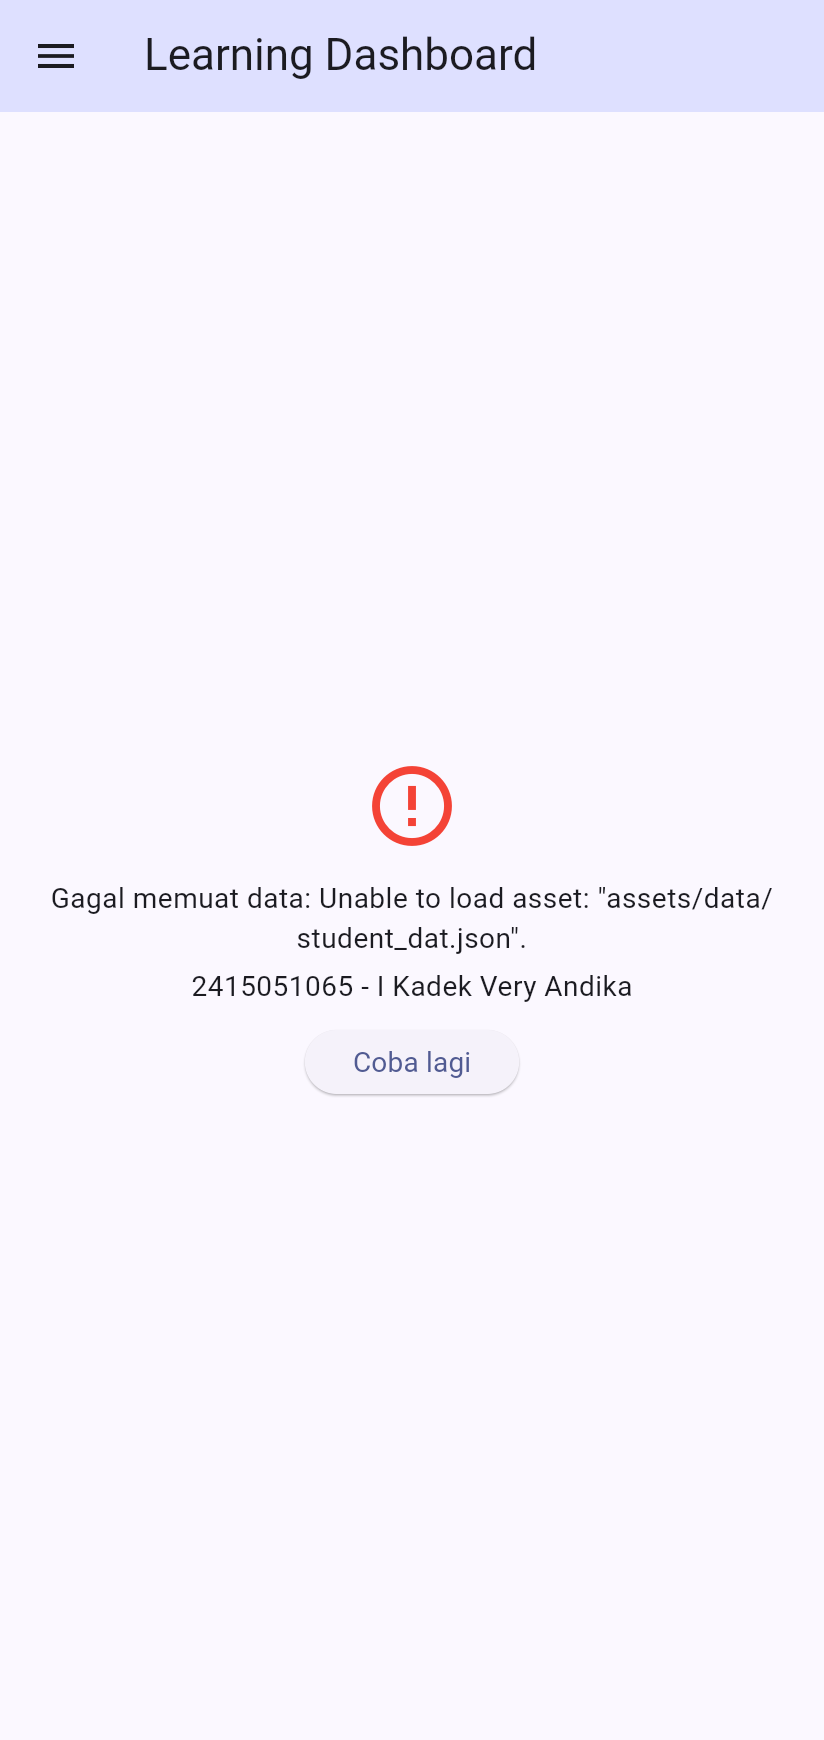
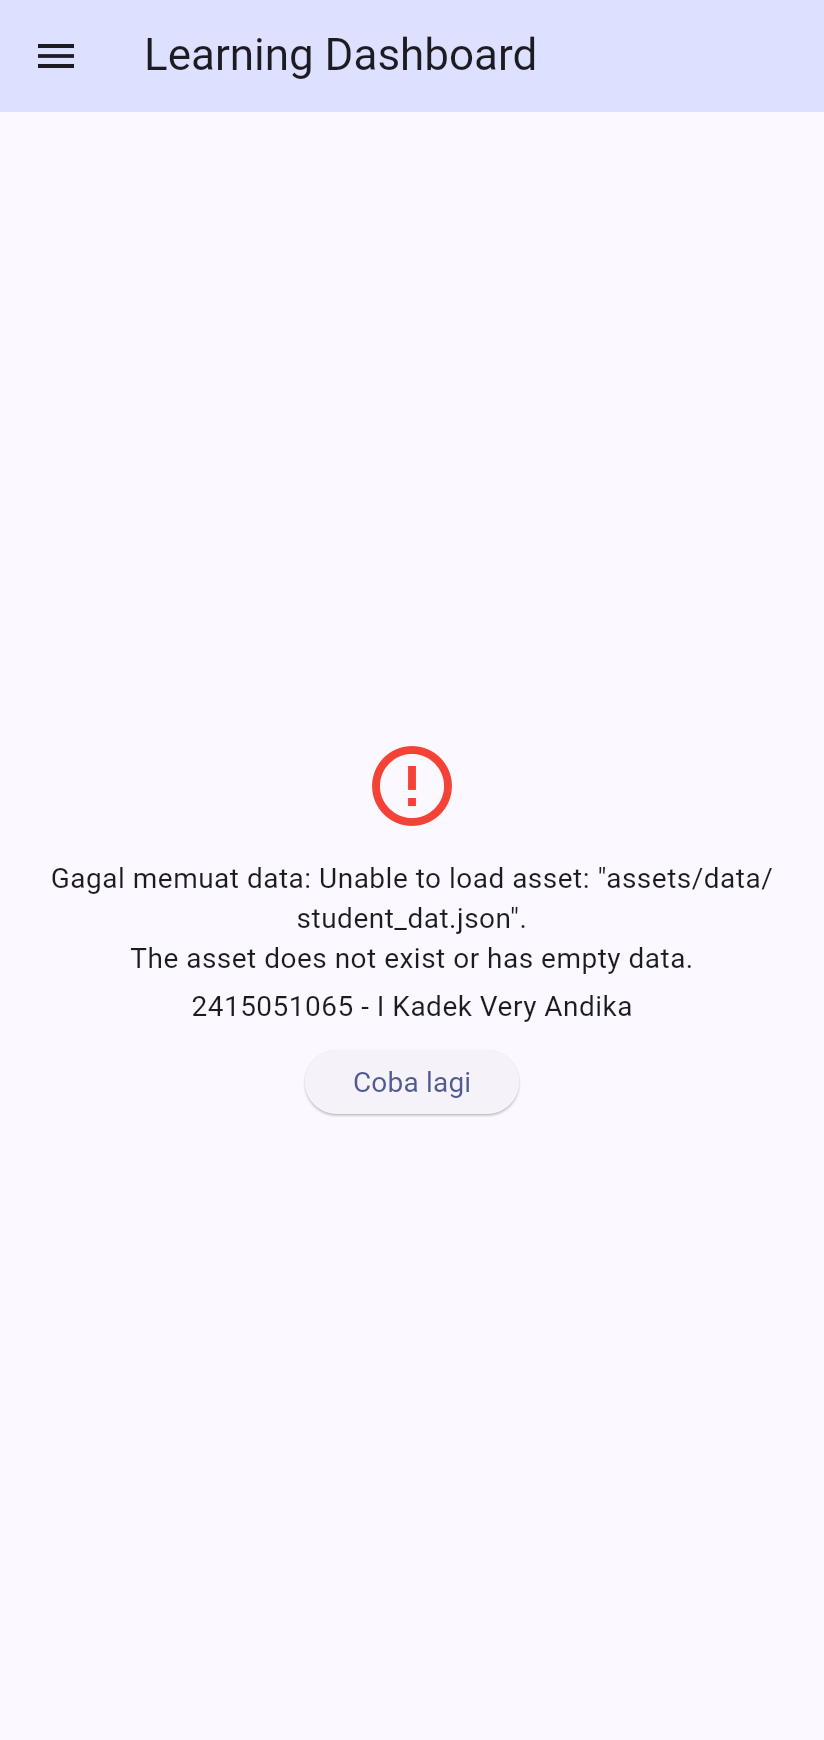
Tahap 15: tampilkan overflow asli, uji Kasus C dengan mengubah path, bukti hot reload

Changed region(s): [[0.0607, 0.4034, 0.9405, 0.6517]]

diff --git a/lib/pages/debugging_page.dart b/lib/pages/debugging_page.dart
@@ -2,7 +2,32 @@ import 'package:flutter/material.dart';
 
 import '../identity.dart';
 
-// Tahap 15 Kasus A: RenderFlex overflow pada Row.
+// Tahap 15 Kasus A (sebelum): kode dari worksheet yang sengaja dibiarkan
+// overflow agar error-nya bisa diamati pada mode debug.
+class OverflowDemoPage extends StatelessWidget {
+  const OverflowDemoPage({super.key});
+
+  @override
+  Widget build(BuildContext context) {
+    return Scaffold(
+      appBar: AppBar(title: const Text('Kasus A - Sebelum')),
+      body: const Padding(
+        padding: EdgeInsets.all(16),
+        child: Row(
+          children: [
+            Icon(Icons.info),
+            SizedBox(width: 8),
+            Text(
+              '$studentId - $studentName - Ini adalah teks yang sangat panjang untuk menguji layout',
+            ),
+          ],
+        ),
+      ),
+    );
+  }
+}
+
+// Tahap 15 Kasus A (sesudah): RenderFlex overflow diperbaiki dengan Expanded.
 class DebuggingPage extends StatelessWidget {
   const DebuggingPage({super.key});
 
@@ -15,17 +40,10 @@ class DebuggingPage extends StatelessWidget {
         child: Column(
           crossAxisAlignment: CrossAxisAlignment.start,
           children: [
-            Text('Kasus A - sebelum (overflow):'),
-            // Row(
-            //   children: [
-            //     Icon(Icons.info),
-            //     SizedBox(width: 8),
-            //     Text('$studentId - $studentName - Ini adalah teks yang sangat panjang untuk menguji layout'),
-            //   ],
-            // ),
             Text(
-              'Text di dalam Row mendapat lebar tak terbatas, sehingga teks '
-              'panjang melebihi layar dan muncul garis kuning-hitam.',
+              'Kasus A - sebelum: lihat /tahap15-overflow. Text di dalam Row '
+              'mendapat lebar tak terbatas, sehingga teks panjang melebihi '
+              'layar dan muncul garis kuning-hitam.',
               style: TextStyle(color: Colors.grey),
             ),
             SizedBox(height: 16),

diff --git a/lib/services/student_service.dart b/lib/services/student_service.dart
@@ -3,13 +3,11 @@ import 'dart:convert';
 import 'package:flutter/services.dart' show rootBundle;
 
 // Tahap 12: membaca JSON statik dari asset lalu decode ke Map.
-// Tahap 15 Kasus C: route /#/tahap15-error memanggil fungsi ini dengan
-// path yang salah ('student_dat.json') untuk memperlihatkan error state.
+// Tahap 15 Kasus C: ubah sementara path ini (mis. 'student_dat.json')
+// untuk melihat error state pada FutureBuilder, lalu kembalikan.
 const String studentDataPath = 'assets/data/student_data.json';
 
-Future<Map<String, dynamic>> loadStudentData([
-  String path = studentDataPath,
-]) async {
-  final jsonString = await rootBundle.loadString(path);
+Future<Map<String, dynamic>> loadStudentData() async {
+  final jsonString = await rootBundle.loadString(studentDataPath);
   return jsonDecode(jsonString) as Map<String, dynamic>;
 }

diff --git a/lib/pages/dashboard_page.dart b/lib/pages/dashboard_page.dart
@@ -11,9 +11,7 @@ import 'topics_page.dart';
 
 // Tahap 13 & 14: Learning Dashboard dari JSON statik.
 class DashboardPage extends StatefulWidget {
-  const DashboardPage({super.key, this.dataPath = studentDataPath});
-
-  final String dataPath;
+  const DashboardPage({super.key});
 
   @override
   State<DashboardPage> createState() => _DashboardPageState();
@@ -26,12 +24,12 @@ class _DashboardPageState extends State<DashboardPage> {
   @override
   void initState() {
     super.initState();
-    studentFuture = loadStudentData(widget.dataPath);
+    studentFuture = loadStudentData();
   }
 
   void _reload() {
     setState(() {
-      studentFuture = loadStudentData(widget.dataPath);
+      studentFuture = loadStudentData();
     });
   }
 

diff --git a/lib/main.dart b/lib/main.dart
@@ -55,6 +55,5 @@ final Map<String, WidgetBuilder> appRoutes = {
   '/tahap13': (_) => const Tahap13Page(),
   '/latihan': (_) => const PracticePage(),
   '/tahap15': (_) => const DebuggingPage(),
-  '/tahap15-error': (_) =>
-      const DashboardPage(dataPath: 'assets/data/student_dat.json'),
+  '/tahap15-overflow': (_) => const OverflowDemoPage(),
 };

diff --git a/JAWABAN.md b/JAWABAN.md
@@ -1,7 +1,6 @@
 # Jawaban Worksheet Pertemuan 4 – Flutter UI Fundamentals
 
-> Sesuaikan dengan bahasa Anda sendiri sebelum dikumpulkan. Ganti `NIM_ANDA`
-> di `lib/identity.dart` dan `assets/data/student_data.json`.
+> Sesuaikan dengan bahasa Anda sendiri sebelum dikumpulkan.
 
 ## Peta tahap → file
 
@@ -21,9 +20,15 @@ Field tambahan JSON (Tahap 14): `student.motto` dan `courses[].progress`
 (ditampilkan sebagai kutipan di kartu profil dan progress bar di tiap materi).
 
 ## Tahap 1 – Eksperimen Hot Reload
-Hot Reload menyuntikkan kode baru ke aplikasi yang sedang berjalan dalam ±1 detik
-dan state (misalnya teks di TextField) tetap dipertahankan. Stop lalu run ulang
-membangun ulang aplikasi dari awal: lebih lama dan semua state kembali ke nilai awal.
+Diuji dengan `flutter run -d chrome` (mode debug) di halaman `/tahap1`:
+1. Tombol + ditekan 3 kali → counter **3**.
+2. Teks `You have pushed the button this many times:` diubah, lalu **hot reload**
+   (±1,5 detik): teks baru langsung tampil dan counter **tetap 3** (state dipertahankan).
+3. **Hot restart** (±1,2 detik): aplikasi dijalankan ulang dari `main()` dan counter
+   **kembali 0**. Stop lalu `flutter run` ulang juga mereset state, tetapi jauh lebih
+   lama karena aplikasi dikompilasi dan dibuka ulang.
+
+Bukti: `docs/screenshots/hr_1_before.png`, `hr_2_after_reload.png`, `hr_3_after_restart.png`.
 
 ## Tahap 2 – Pertanyaan Pemahaman
 1. **Fungsi `main()`**: titik masuk program; fungsi pertama yang dijalankan saat aplikasi dibuka.
@@ -60,8 +65,9 @@ dan berukuran konsisten, sedangkan `Image.asset` hanya menampilkan gambar apa ad
 - `center`: semua item berkumpul di tengah tanpa jarak tambahan.
 
 ## Tahap 15 – Debugging
-**Kasus A**: `Text` di dalam `Row` diberi lebar tak terbatas, sehingga teks panjang
-melebihi lebar layar (RenderFlex overflow). Membungkus `Text` dengan `Expanded`
+**Kasus A**: kode asli worksheet ada di route `/tahap15-overflow`; pada mode debug
+muncul garis kuning-hitam *RIGHT OVERFLOWED* (`t15_overflow.png`). `Text` di dalam
+`Row` diberi lebar tak terbatas, sehingga teks panjang melebihi lebar layar. Membungkus `Text` dengan `Expanded`
 membuat Text hanya mendapat sisa lebar setelah Icon dan SizedBox, sehingga teks
 otomatis turun baris.
 
@@ -70,8 +76,10 @@ otomatis turun baris.
 2. Folder sudah didaftarkan di `pubspec.yaml` dengan indentasi YAML yang benar.
 3. Sudah menjalankan `flutter pub get` dan **restart penuh** (bukan hot reload).
 
-**Kasus C**: ubah `studentDataPath` di `lib/services/student_service.dart`
-(misal jadi `student_dat.json`). Error state membuat aplikasi tetap tampil dengan
+**Kasus C**: `studentDataPath` di `lib/services/student_service.dart` diubah
+sementara menjadi `student_dat.json` lalu hot restart; dashboard menampilkan
+*Gagal memuat data: Unable to load asset* (`t15_error.png`). Setelah path
+dikembalikan dan hot restart lagi, data tampil normal (`t15_fixed.png`). Error state membuat aplikasi tetap tampil dengan
 pesan yang jelas (plus tombol *Coba lagi*) alih-alih crash atau loading tanpa akhir,
 sehingga pengguna dan developer tahu apa yang salah.
 

diff --git a/README.md b/README.md
@@ -24,7 +24,8 @@ langsung lewat route, misalnya `/#/tahap5` saat dijalankan di web.
 | `/tahap10`, `/tahap11` | List dari `List<Map<String, dynamic>>` |
 | `/tahap12`, `/tahap13` | JSON statik, `late` + `FutureBuilder` |
 | `/` | Tahap 14 – Learning Dashboard |
-| `/tahap15`, `/tahap15-error` | Debugging overflow & error state |
+| `/tahap15-overflow` | Tahap 15 Kasus A sebelum diperbaiki (overflow, terlihat di mode debug) |
+| `/tahap15` | Tahap 15 Kasus A sesudah diperbaiki dengan `Expanded` |
 
 Jawaban pertanyaan worksheet ada di [JAWABAN.md](JAWABAN.md), screenshot bukti
 di [docs/screenshots](docs/screenshots).
